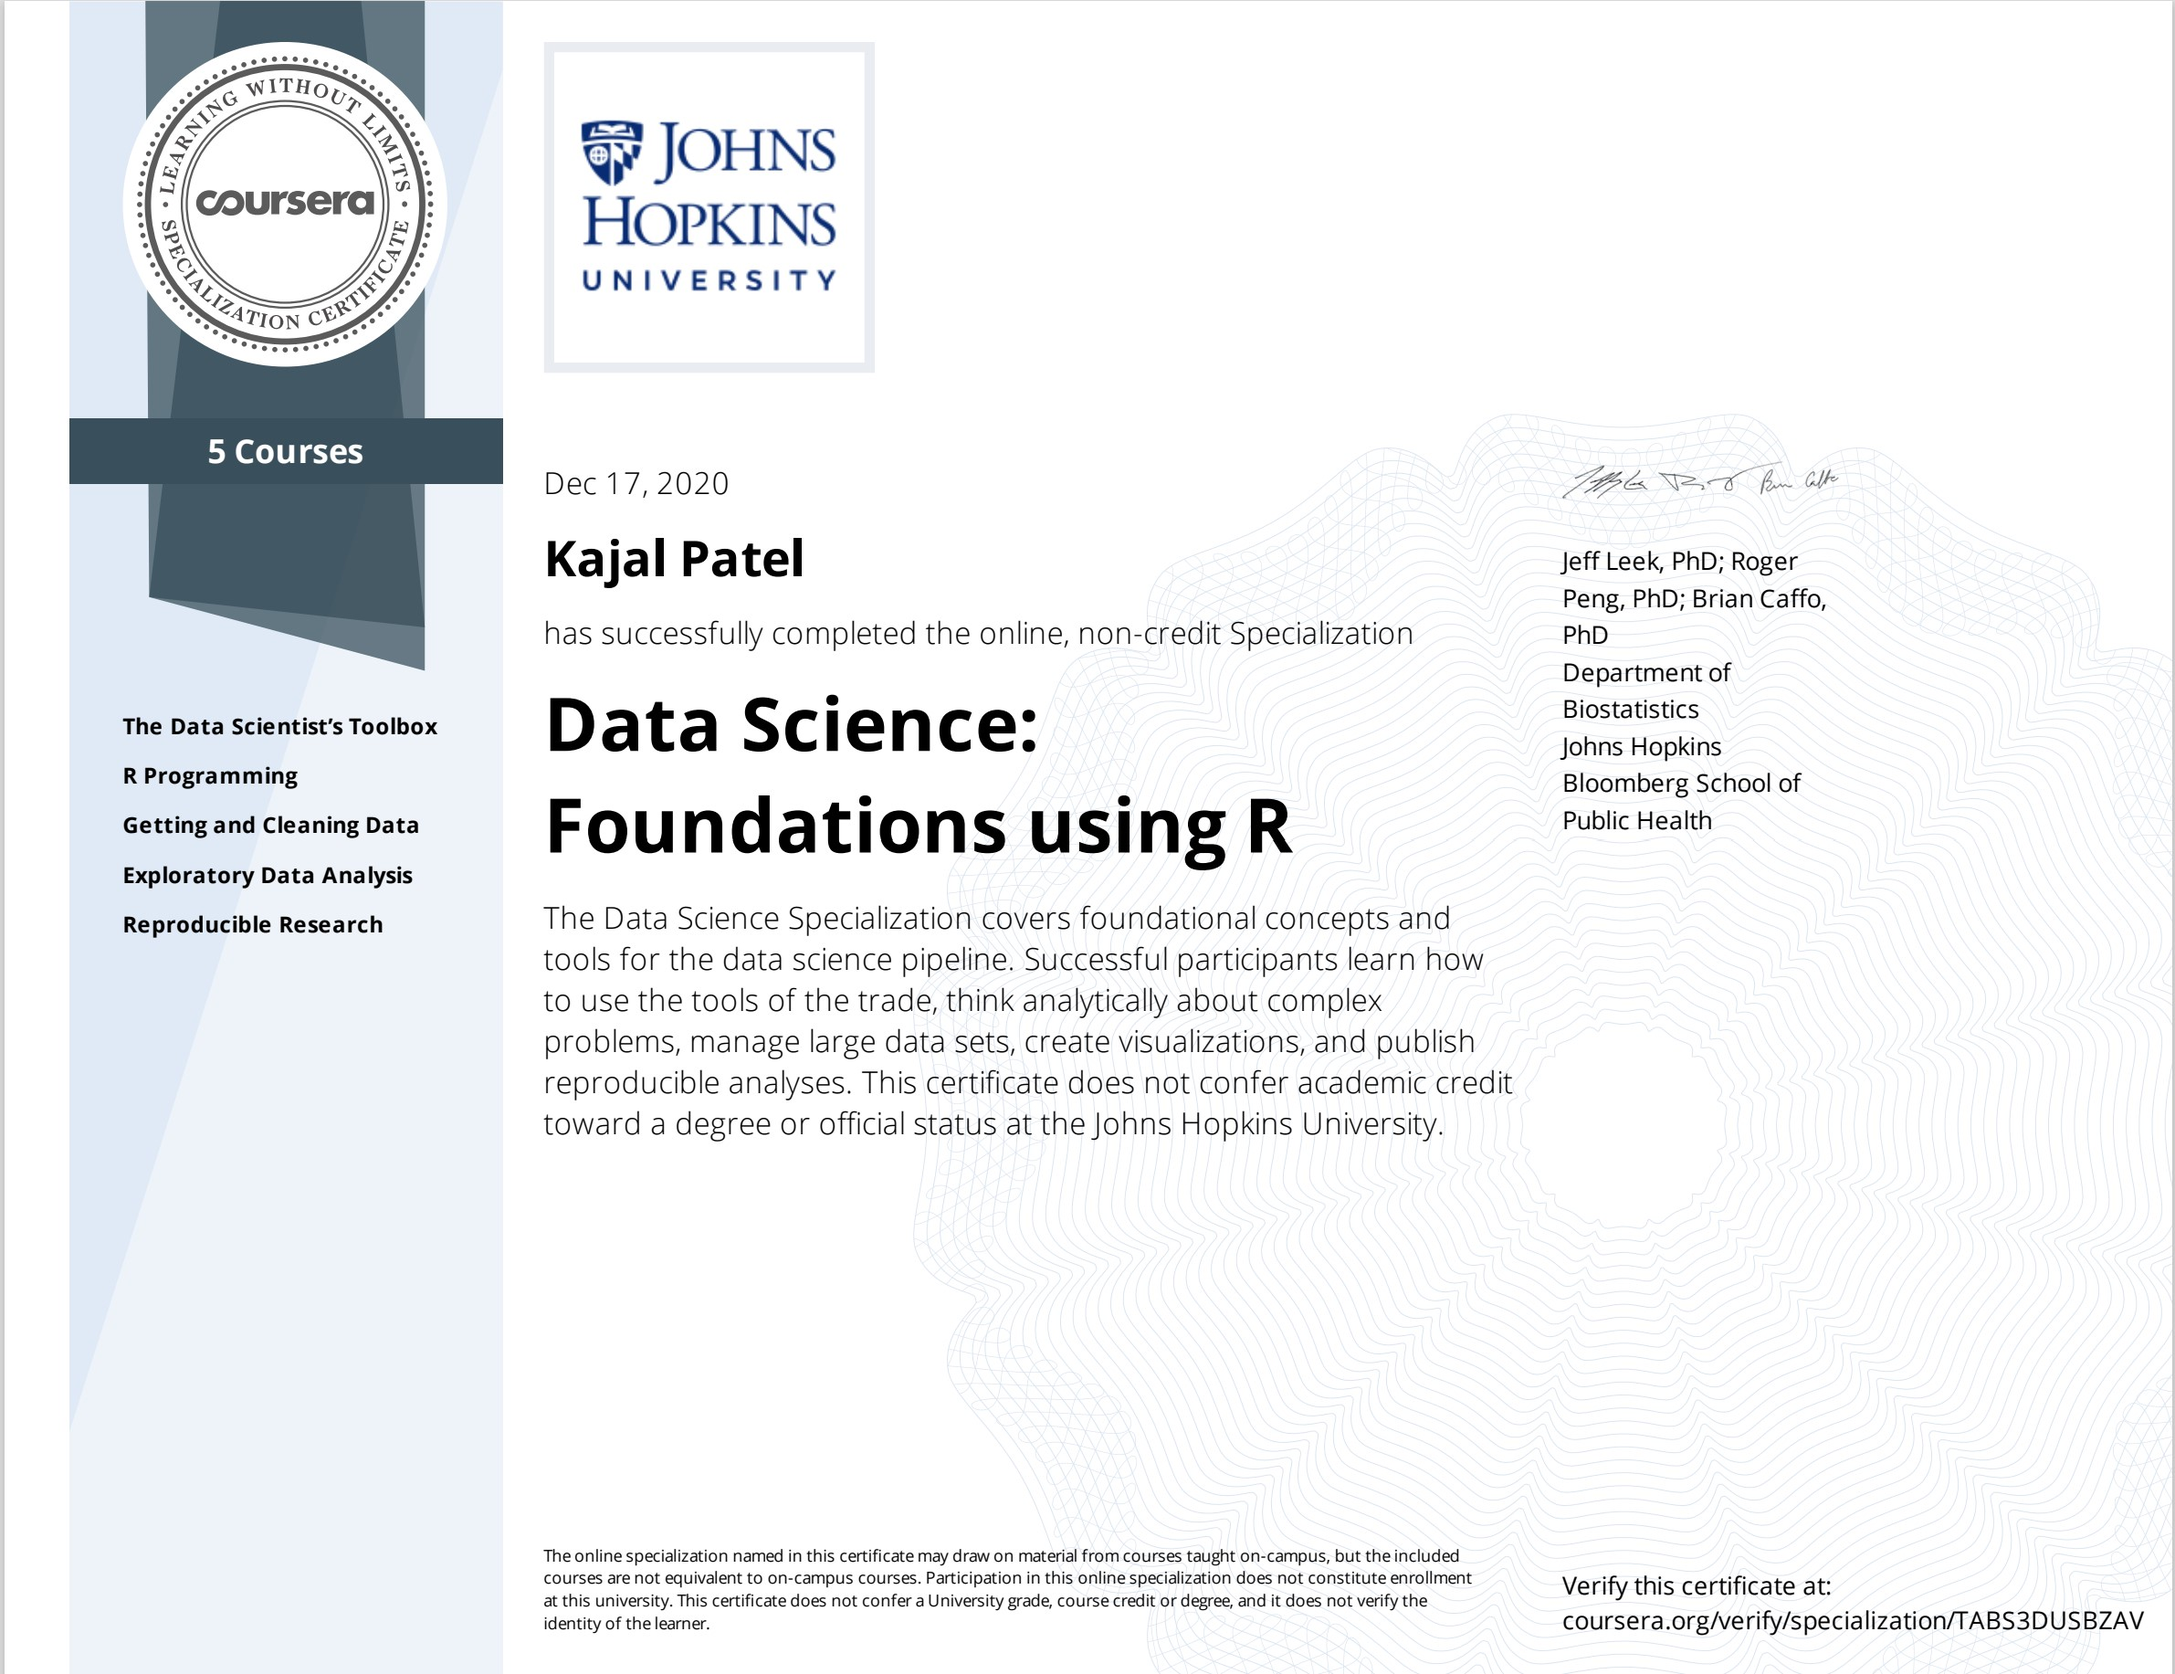
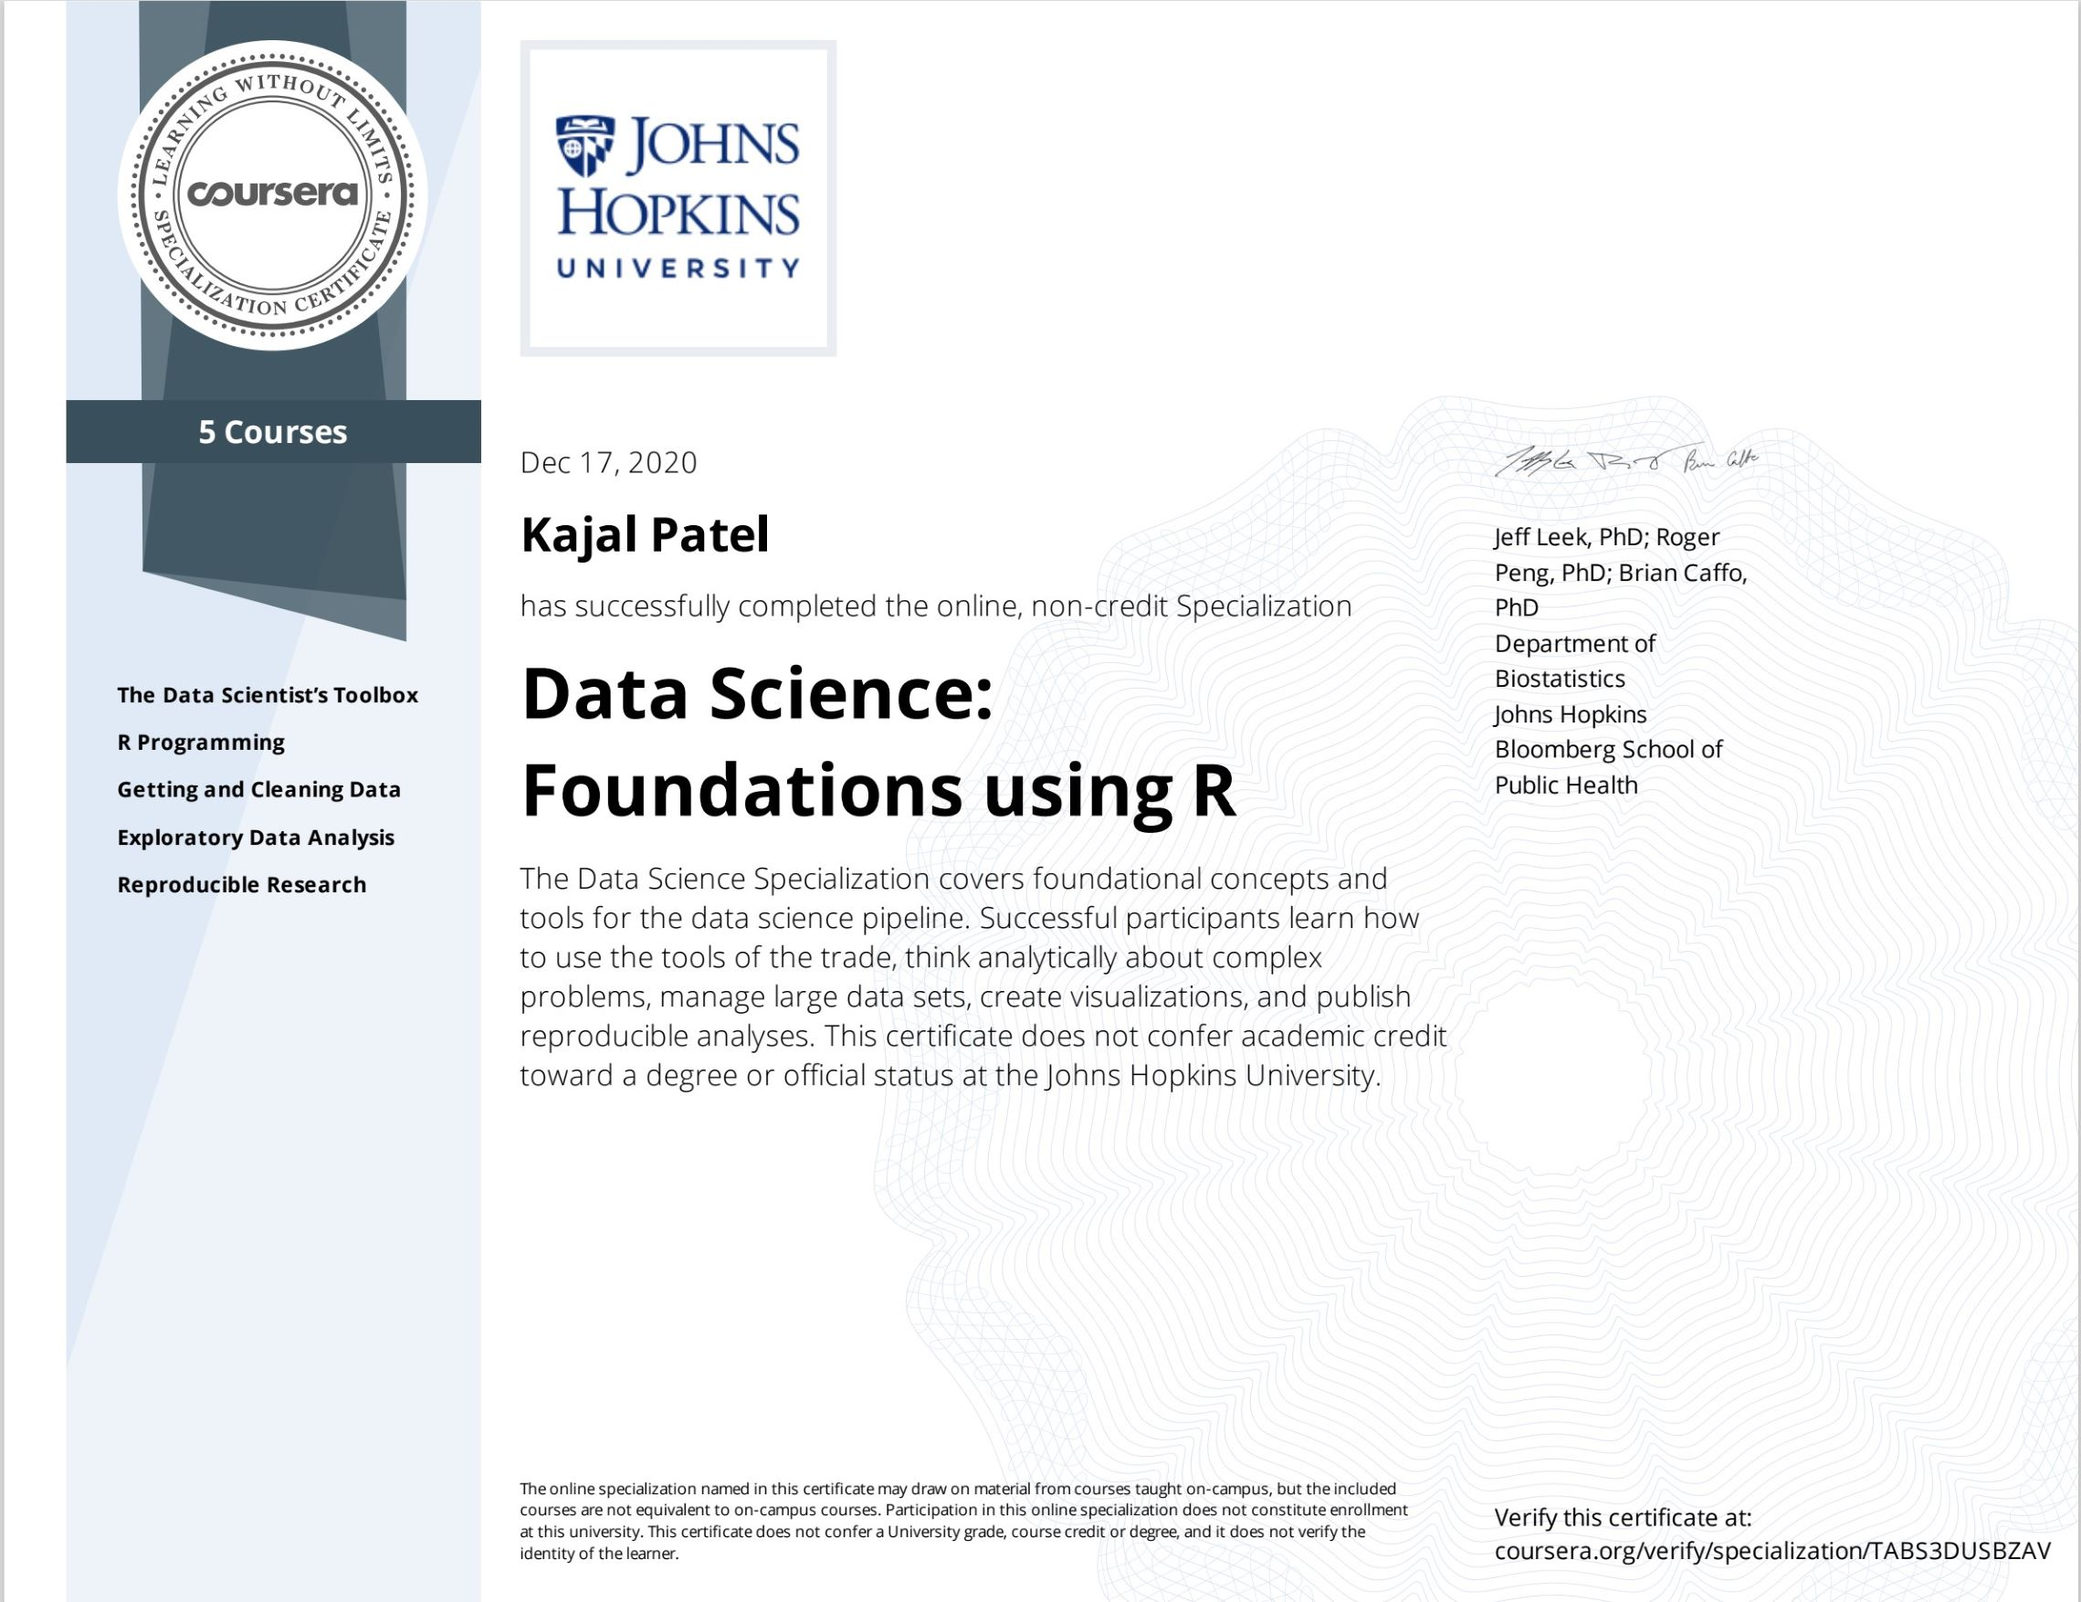
image testing

Changed region(s): [[0.2492, 0.9236, 0.6542, 0.9544], [0.7165, 0.4618, 0.7789, 0.4926], [0.6231, 0.6465, 0.6542, 0.6773]]

diff --git a/cv/cv.md b/cv/cv.md
@@ -48,10 +48,10 @@ permalink: /cv/
 ##  **QUALIFICATIONS**
 
 Nov 2020 Coursera AWS Fundamentals  
-<img src="/assets/img/docs/AWSFund.jpg" width="300">
+<img src="/assets/img/docs/AWSFund.jpg">
 
 Dec 2020 Coursera Data Science Foundations Using R  
-<img src="/assets/img/docs/DSFound.jpg" width="300">
+<img src="/assets/img/docs/DSFound.jpg">
 
 OCT 2019 TEFL CERTIFICATION   
 <img src="/assets/img/docs/tefl.jpg" width="500">
